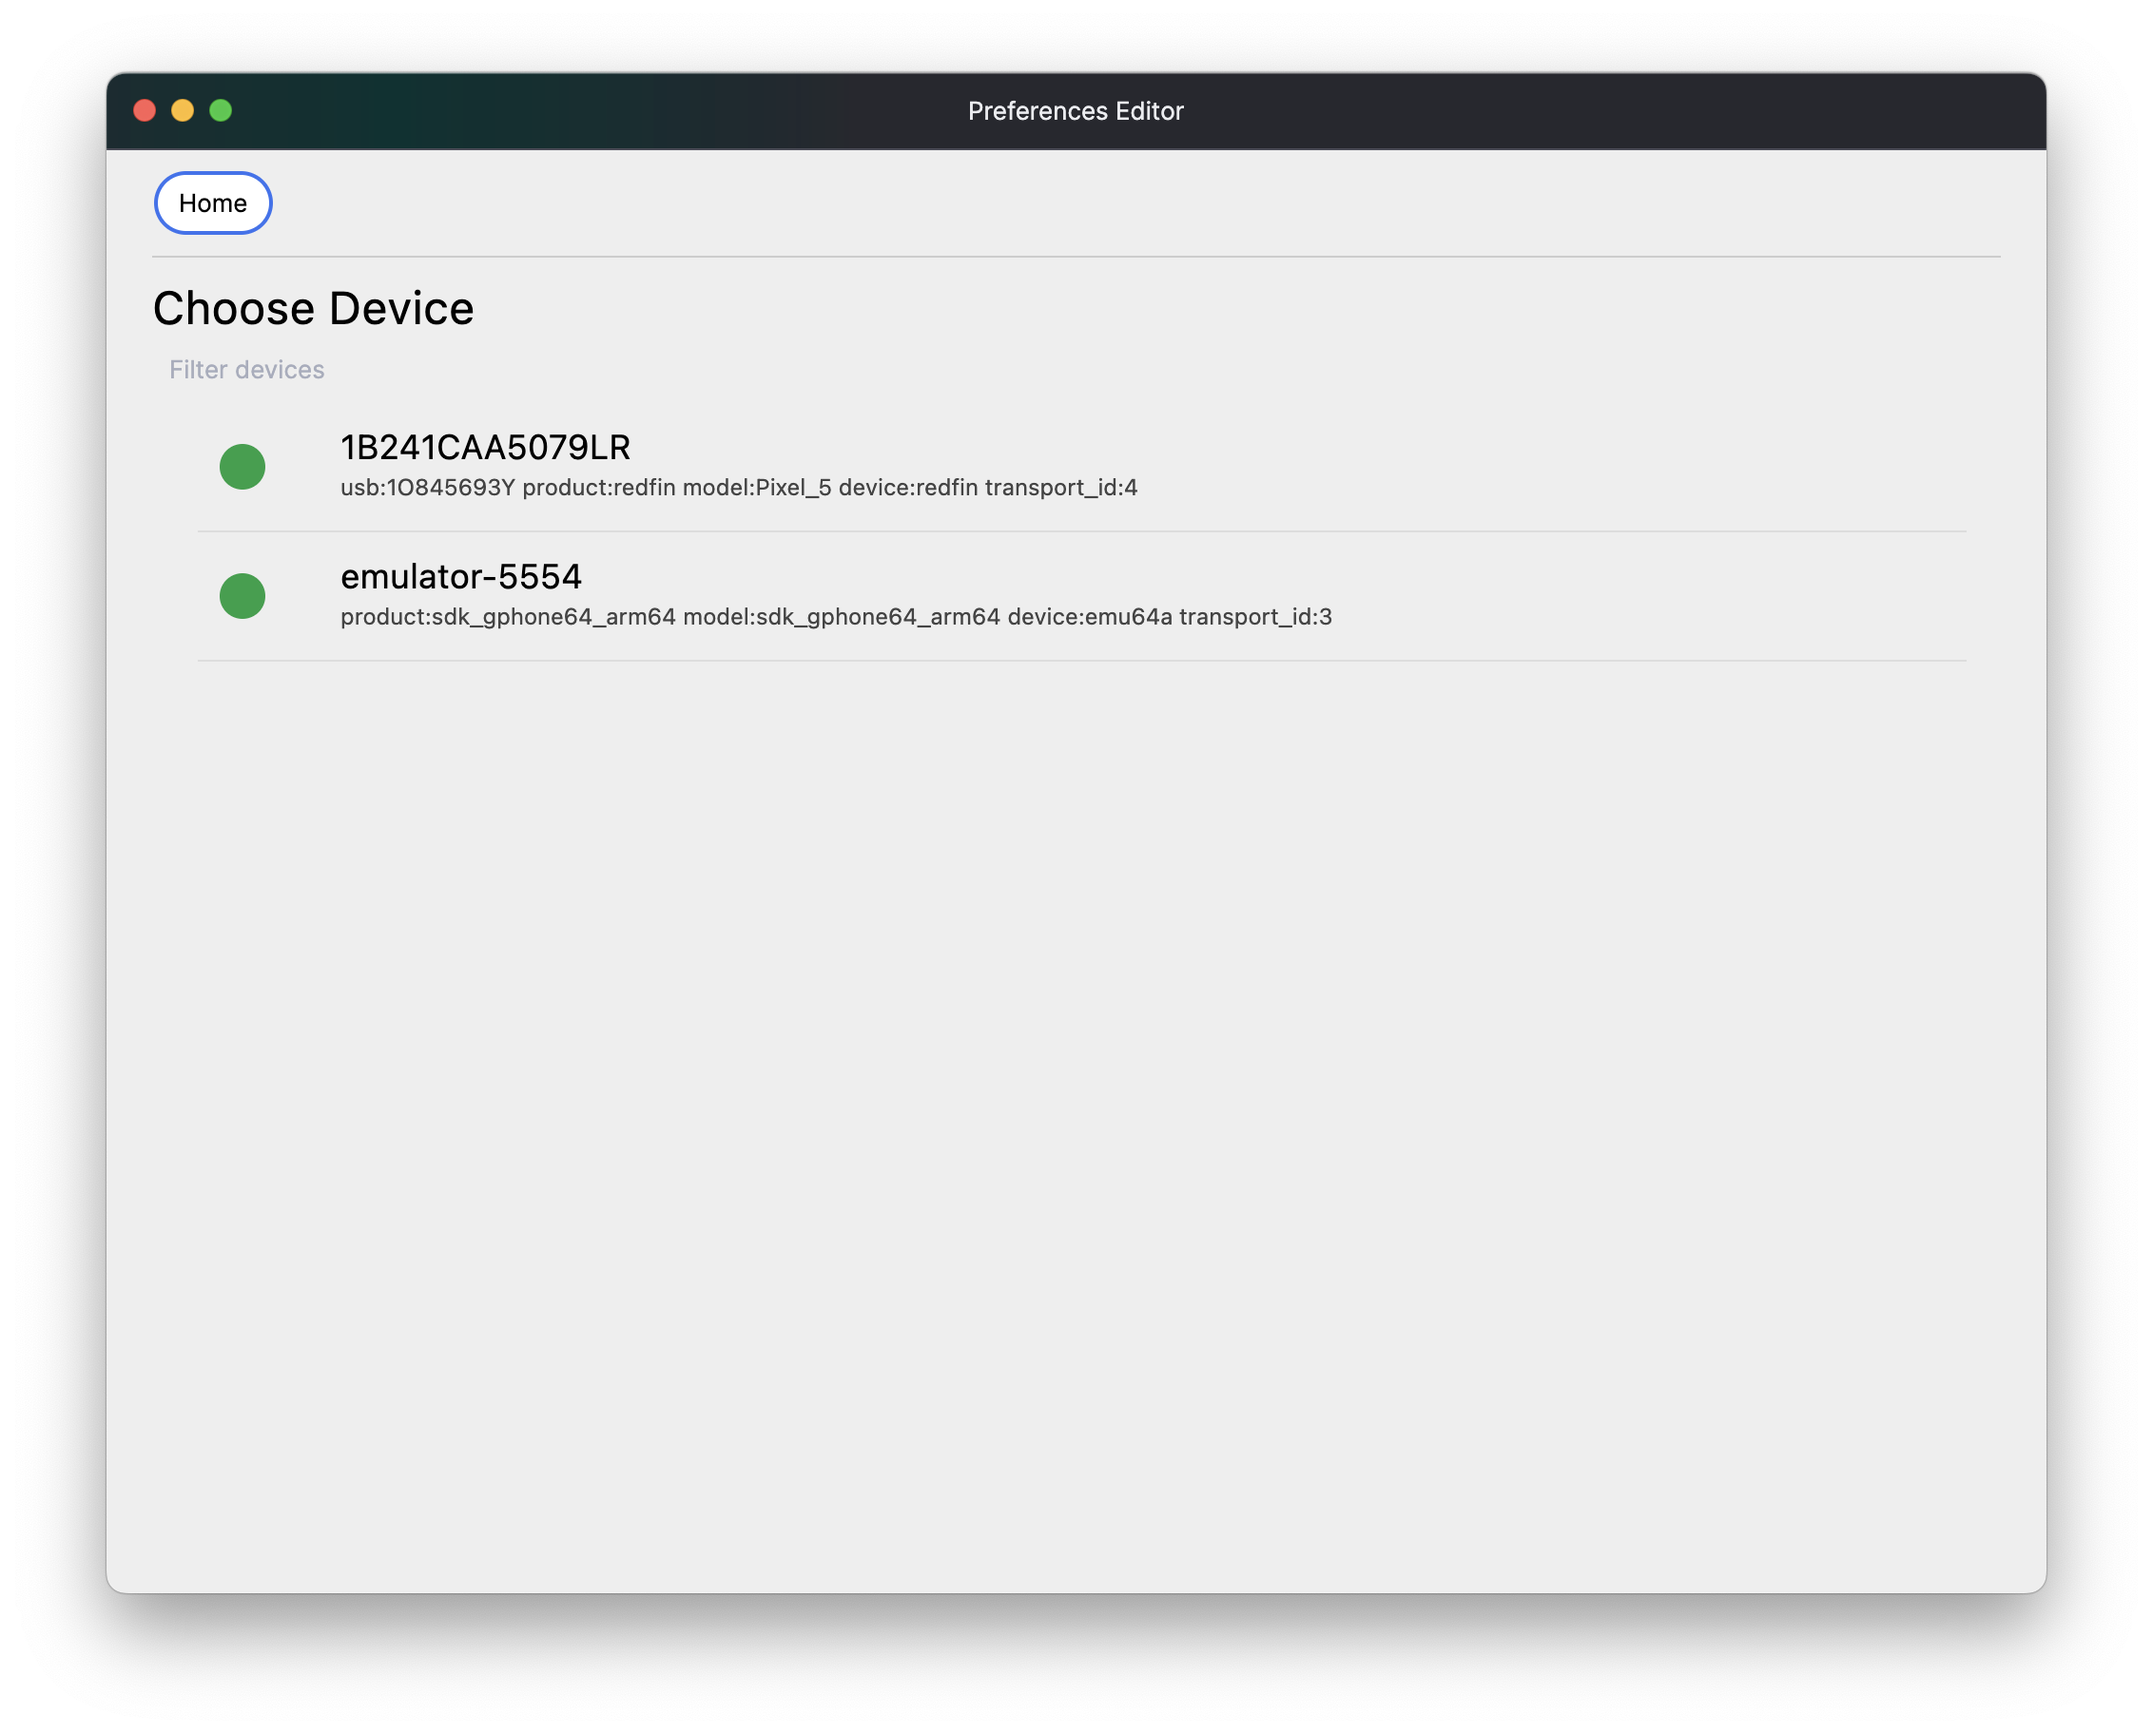
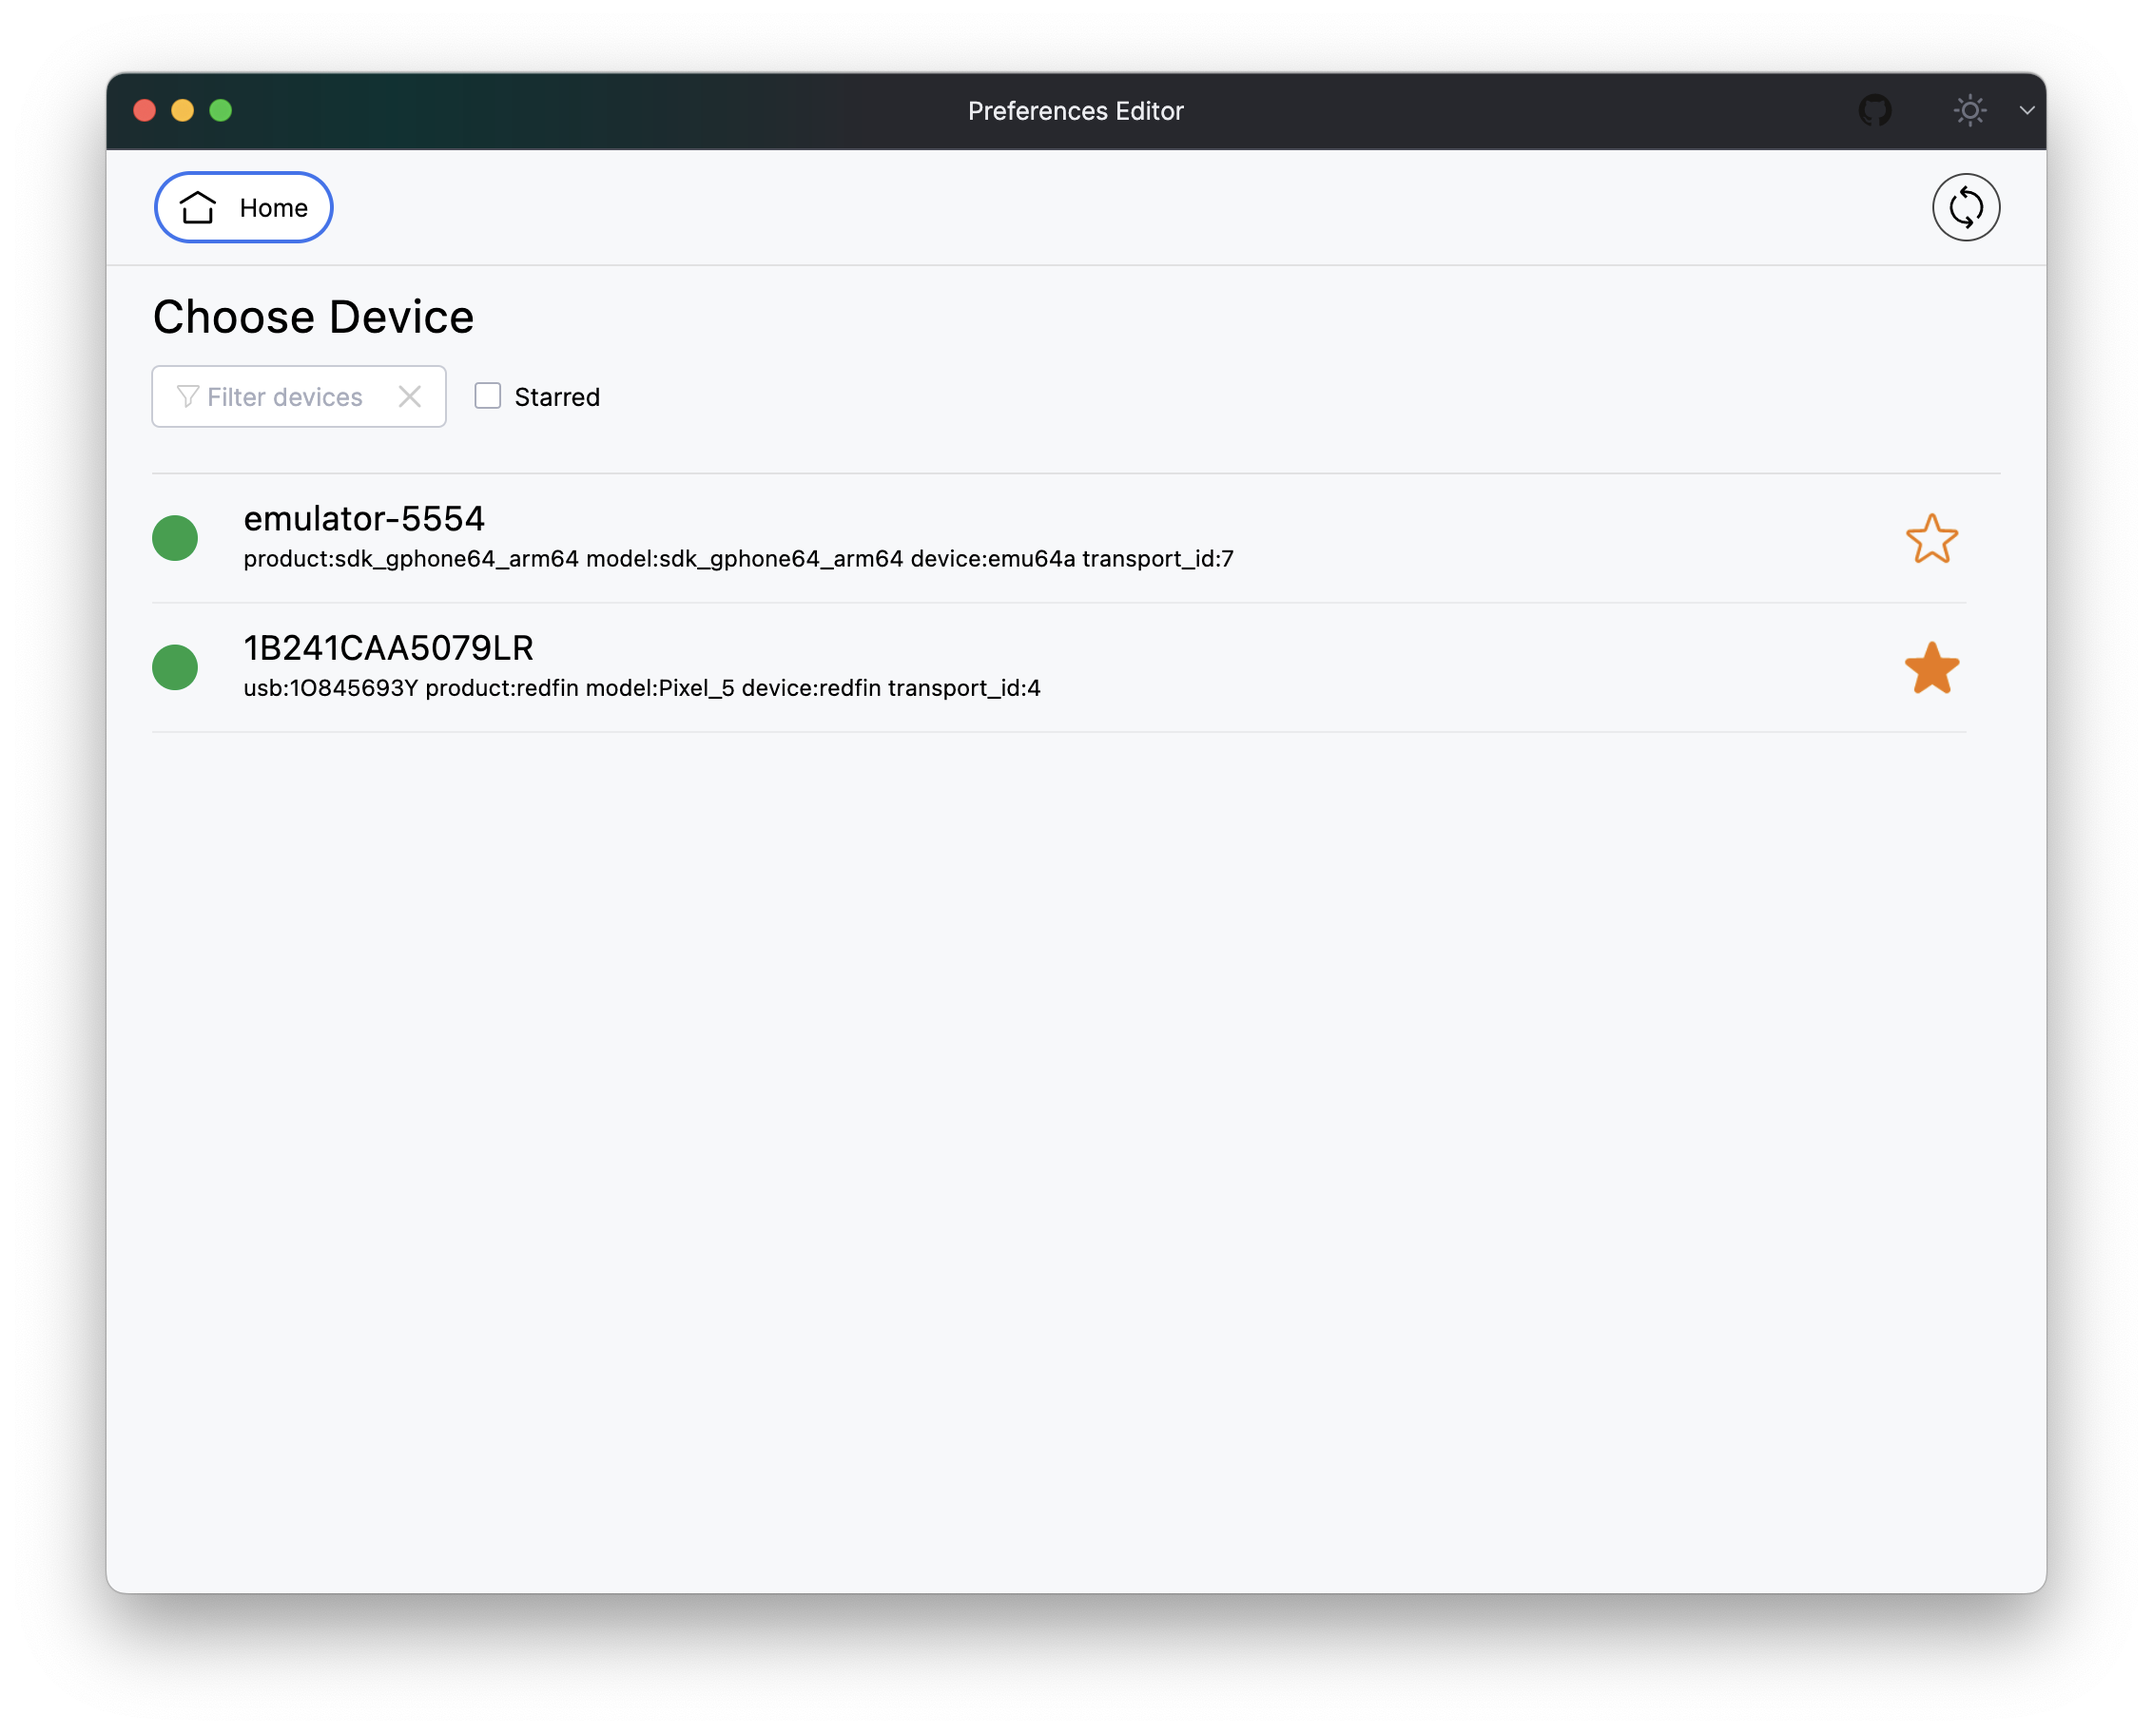
Update README.md

Changed region(s): [[0.0618, 0.0938, 0.6184, 0.4062], [0.8966, 0.0938, 0.9276, 0.1562], [0.8657, 0.375, 0.9276, 0.4062]]

diff --git a/README.md b/README.md
@@ -7,19 +7,22 @@ A desktop app to edit on-device shared preferences.
 A local installation of ADB is required. It should be included in the Android SDK Platform Tools package downloaded while setting up Android Studio.
 If not, download the package with the SDK Manager or get the standalone tools from [here](https://developer.android.com/studio/releases/platform-tools).
 
-| Device Listing                                | App Listing                                |
-|-----------------------------------------------|--------------------------------------------|
-| ![image](./images/01-pref-editor-devices.png) | ![image](./images/02-pref-editor-apps.png) |
-
-| Preferences Files Listing                   | Editing Preferences                        |
-|---------------------------------------------|--------------------------------------------|
-| ![image](./images/03-pref-editor-files.png) | ![image](./images/04-pref-editor-edit.png) |
-
 From the main window:
 * Select device
 * Choose your app
 * Select preferences file
 * View/Edit preferences
+* Star any item to find it faster next time
+
+| Device Listing                                | Editing Preferences                        |
+|-----------------------------------------------|--------------------------------------------|
+| ![image](./images/01-pref-editor-devices.png) | ![image](./images/04-pref-editor-edit.png) |
+
+And we go dark too 😎
+
+| Preferences Files Listing                   | Filtering is supported                         |
+|---------------------------------------------|------------------------------------------------|
+| ![image](./images/03-pref-editor-files.png) | ![image](./images/02-pref-editor-filtered.png) |
 
 # Installation
 
